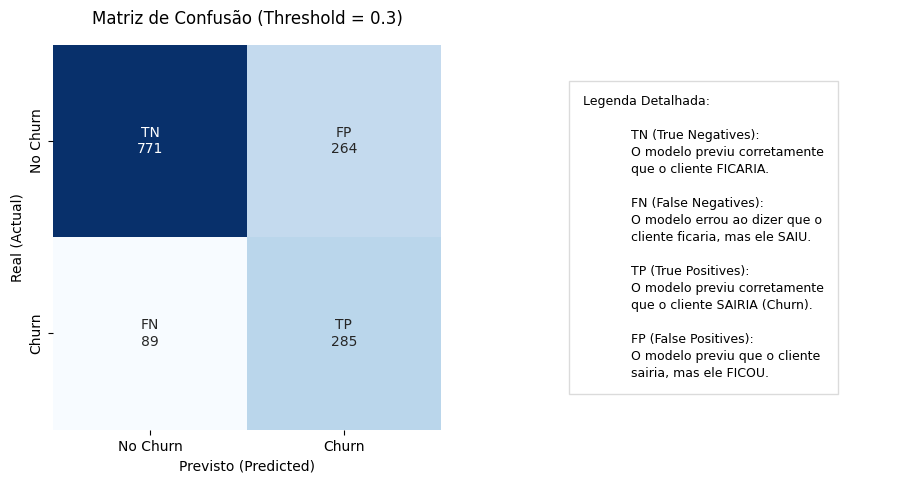
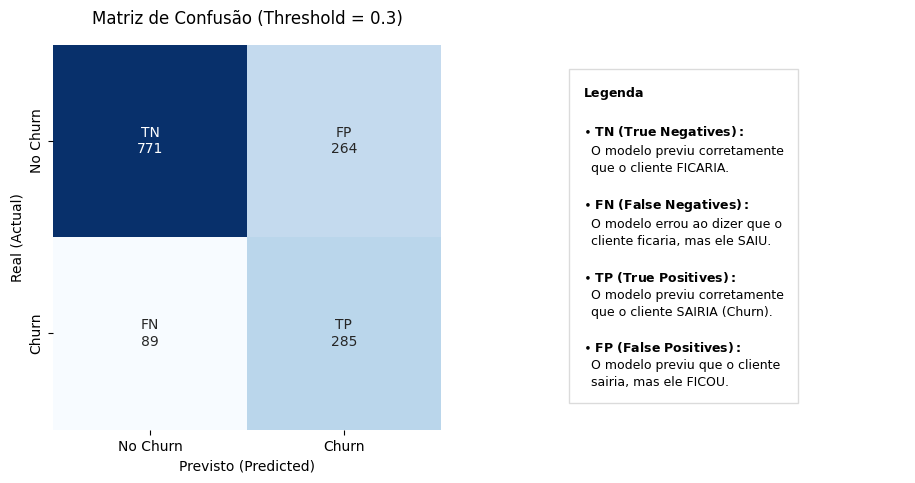
fix: adjusted confusion matrix chart

diff --git a/src/utils/train_utils.py b/src/utils/train_utils.py
@@ -77,23 +77,15 @@ def log_confusion_matrix(y_true, probs, threshold=0.3):
     ax1.axis('off') # Esconde os eixos da área da legenda
 
     legend_text = (
-        """Legenda Detalhada:
-        
-            TN (True Negatives):
-            O modelo previu corretamente
-            que o cliente FICARIA.
-
-            FN (False Negatives):
-            O modelo errou ao dizer que o
-            cliente ficaria, mas ele SAIU.
-
-            TP (True Positives):
-            O modelo previu corretamente
-            que o cliente SAIRIA (Churn).
-
-            FP (False Positives):
-            O modelo previu que o cliente
-            sairia, mas ele FICOU."""
+        r"$\mathbf{Legenda\:}$" + "\n\n"
+        r"$\bullet\ \mathbf{TN\ (True\ Negatives):}$" + "\n"
+        "  O modelo previu corretamente\n  que o cliente FICARIA.\n\n"
+        r"$\bullet\ \mathbf{FN\ (False\ Negatives):}$" + "\n"
+        "  O modelo errou ao dizer que o\n  cliente ficaria, mas ele SAIU.\n\n"
+        r"$\bullet\ \mathbf{TP\ (True\ Positives):}$" + "\n"
+        "  O modelo previu corretamente\n  que o cliente SAIRIA (Churn).\n\n"
+        r"$\bullet\ \mathbf{FP\ (False\ Positives):}$" + "\n"
+        "  O modelo previu que o cliente\n  sairia, mas ele FICOU."
     )
 
     # Adicionamos o texto dentro do eixo ax1 (invisível)
